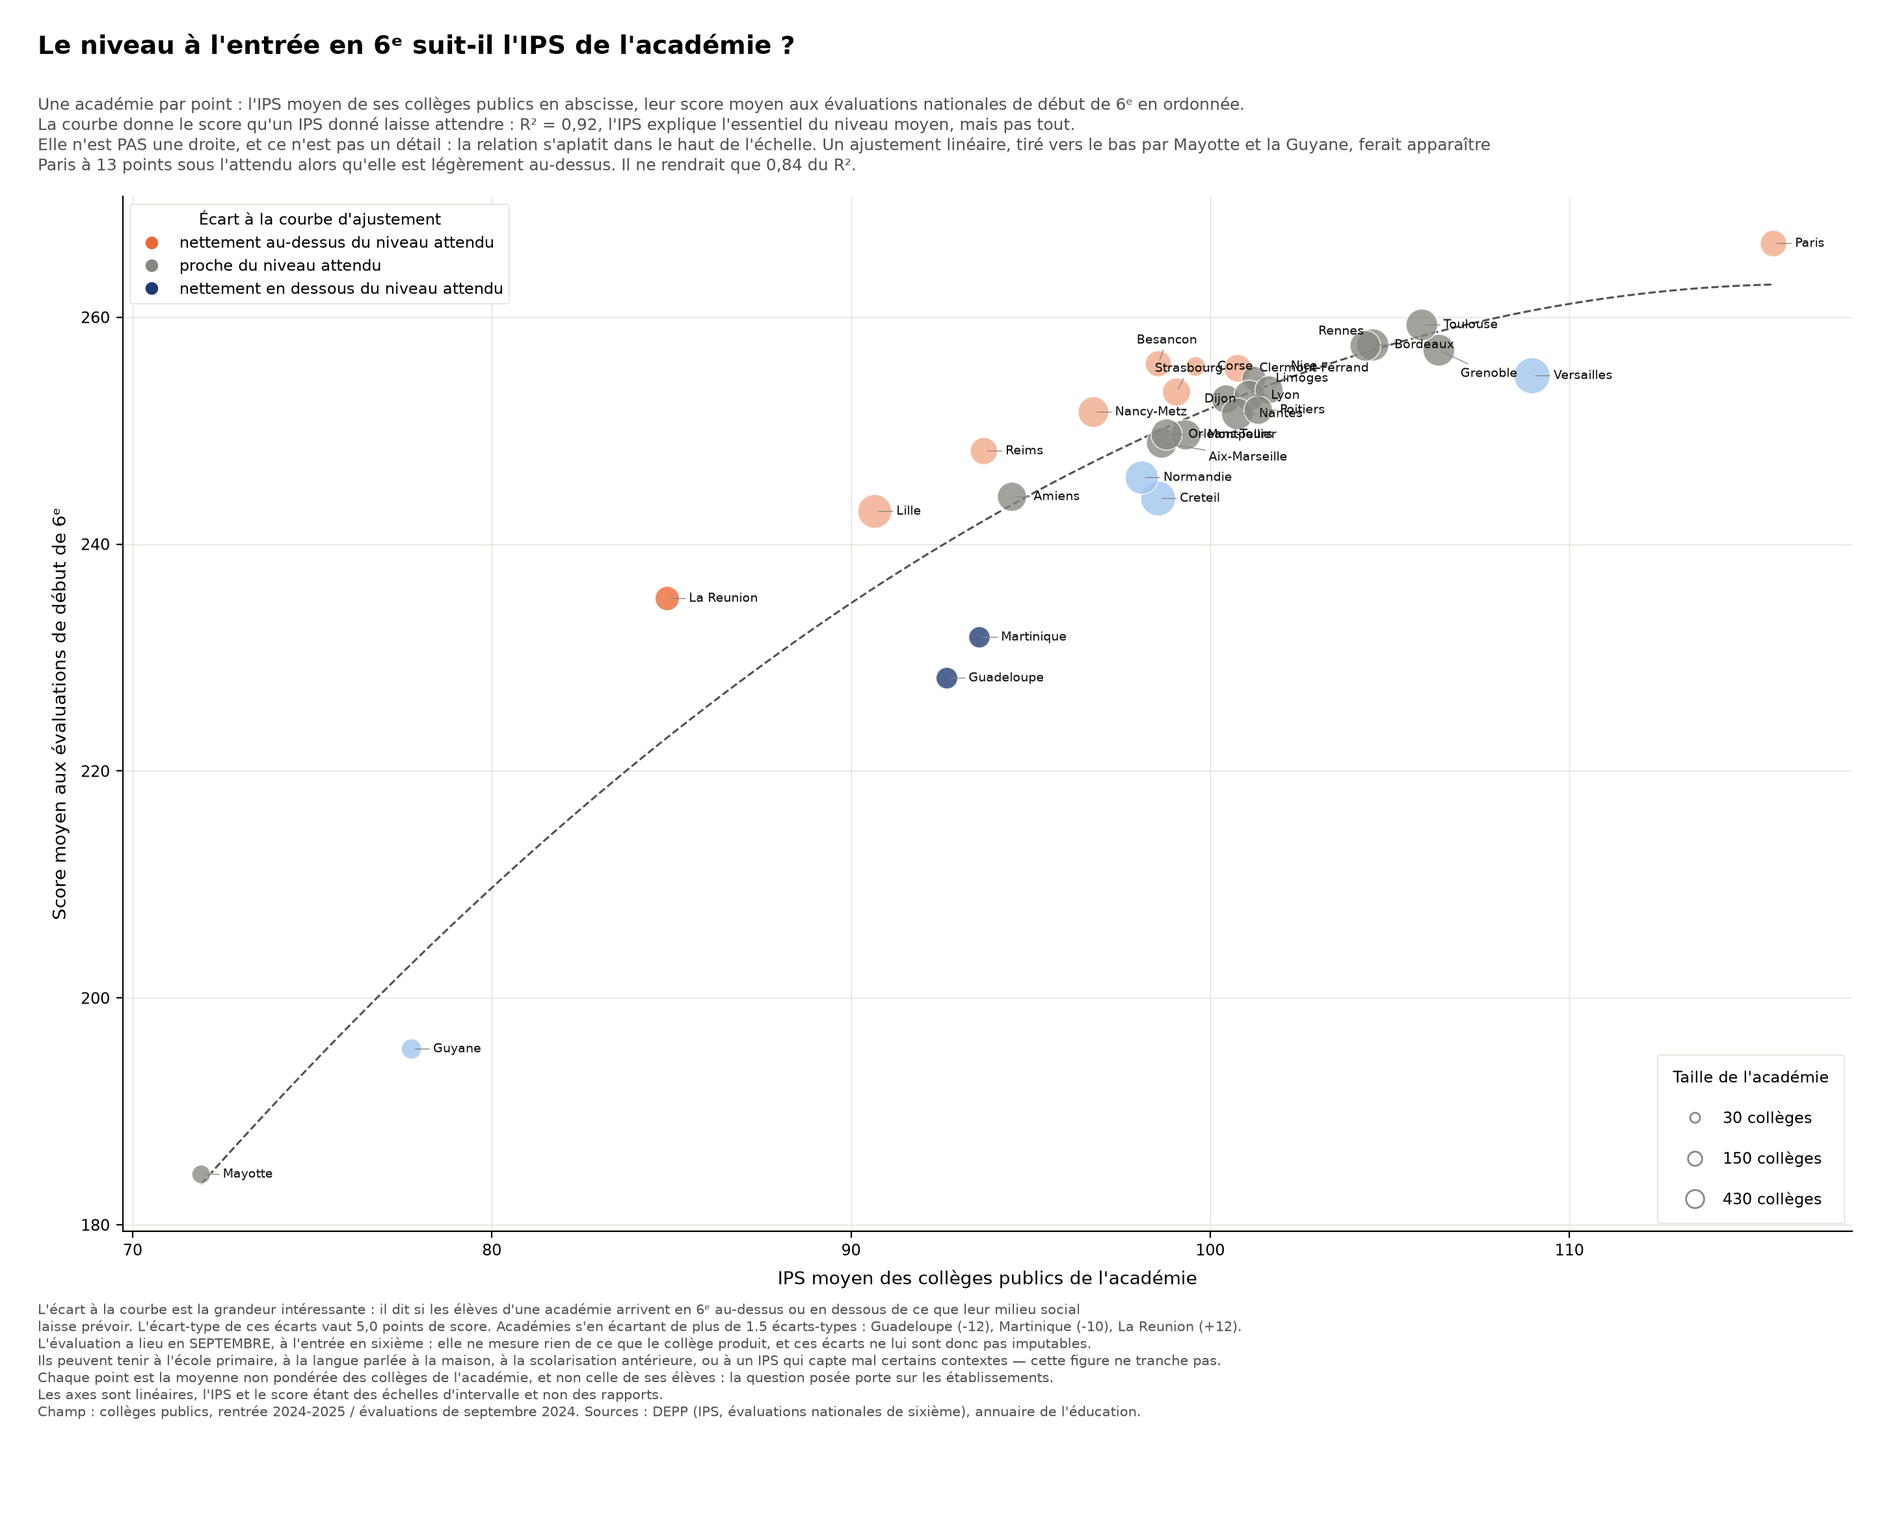
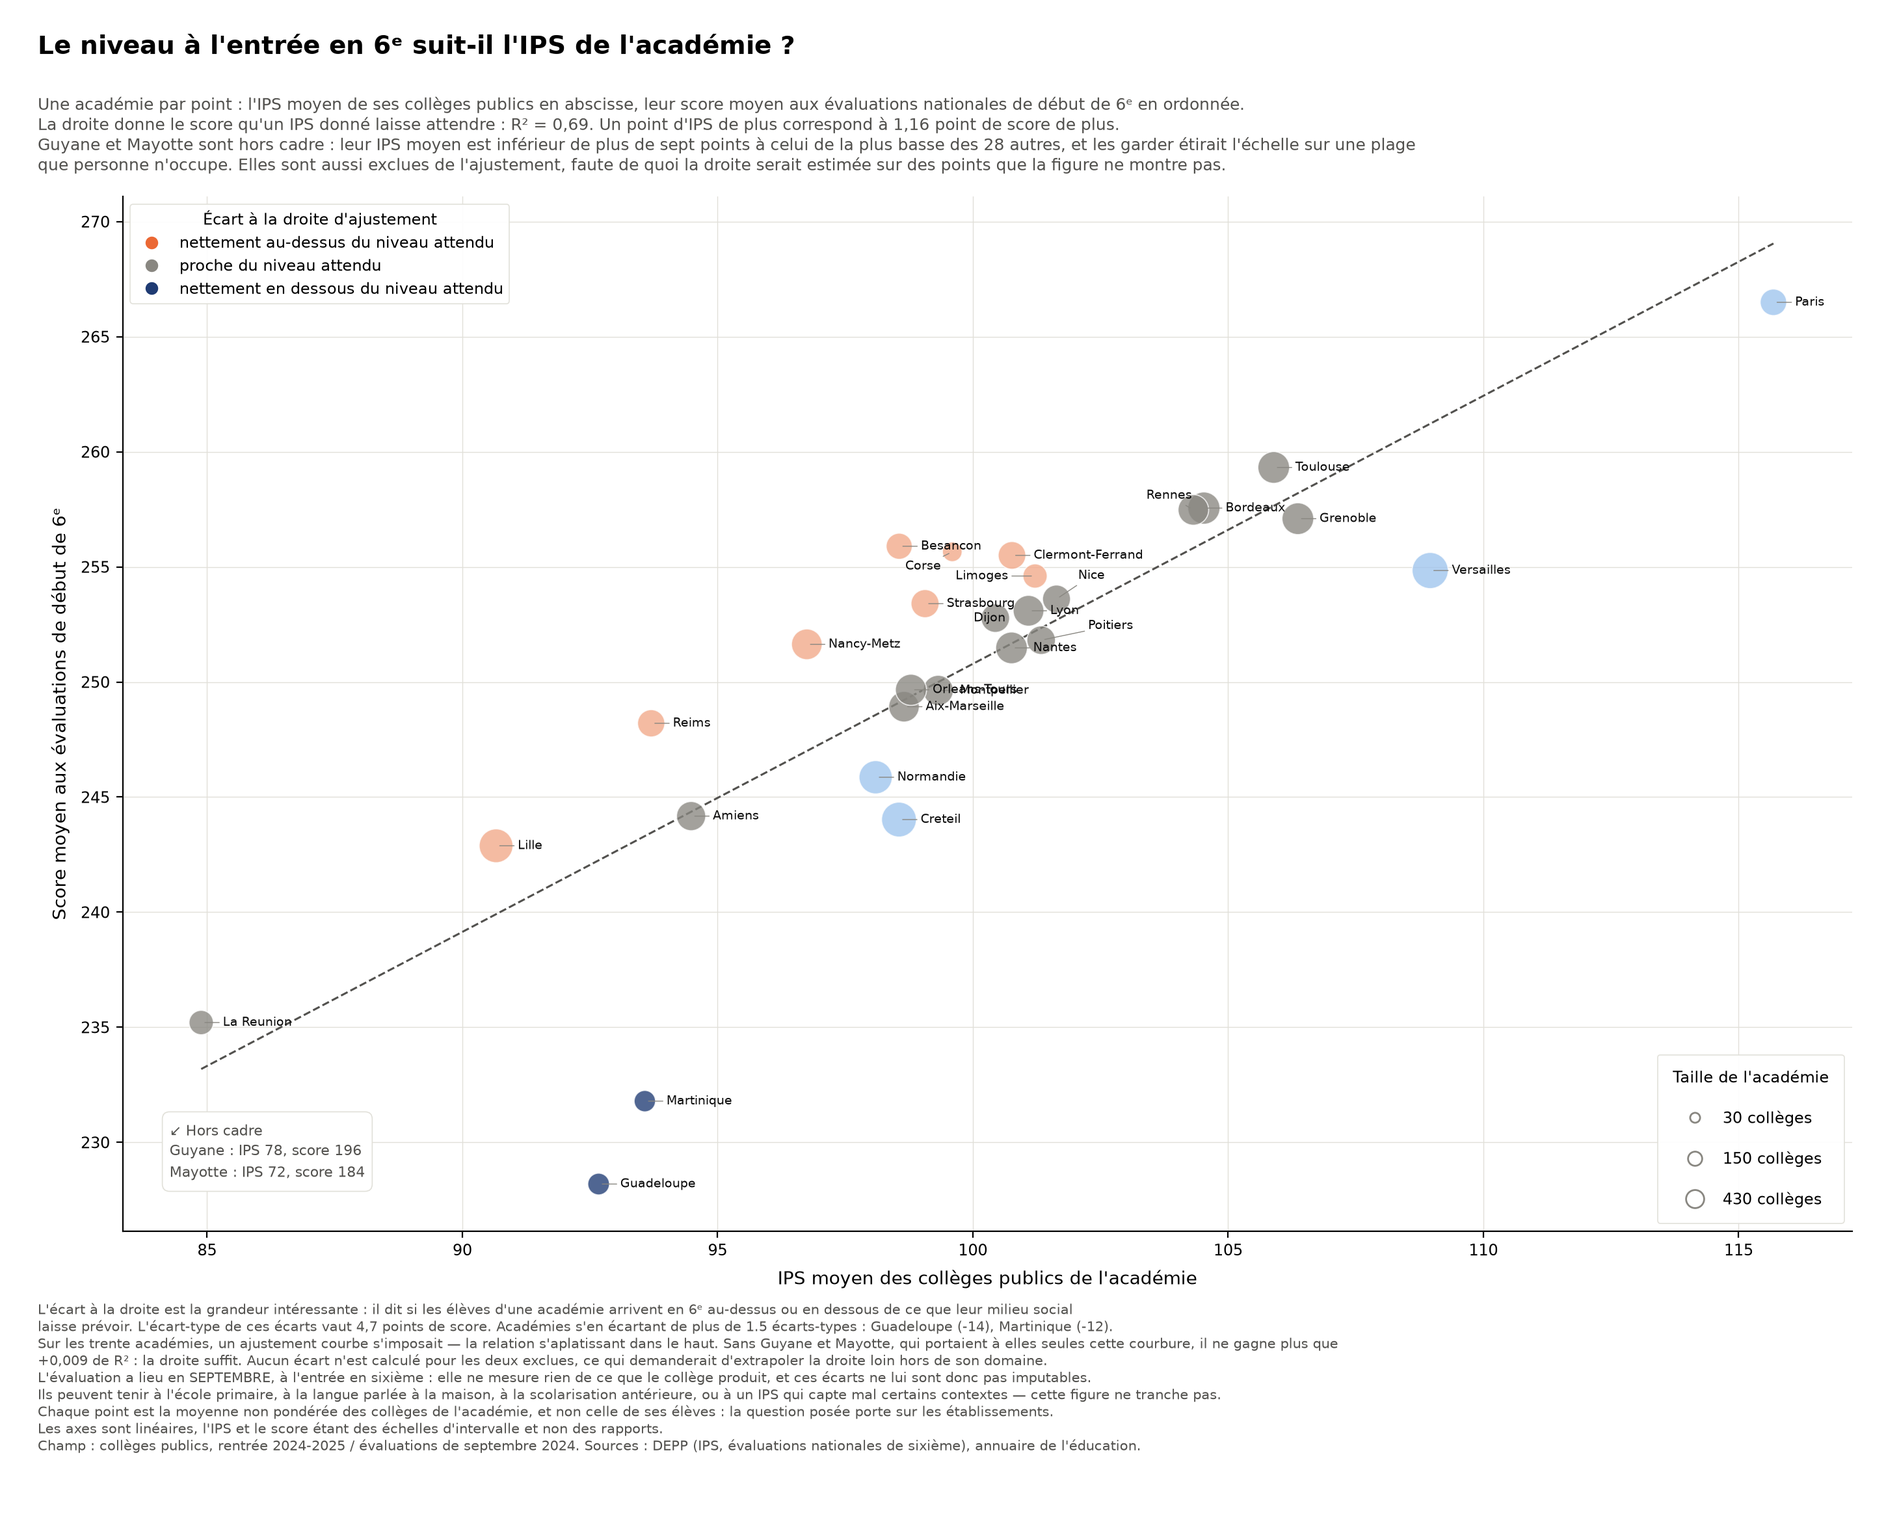
Mayotte et la Guyane hors cadre, et retour a un ajustement lineaire
Leur IPS moyen — 71,9 et 77,8 — est inferieur de plus de sept points a celui de
la plus basse des autres, La Reunion a 84,9. Les garder etirait l'echelle sur
une plage de quinze points d'IPS que personne n'occupe et tassait les
vingt-huit autres academies dans le coin superieur droit.

ELLES SORTENT AUSSI DE L'AJUSTEMENT, ET CE N'EST PAS UNE COMMODITE

Le commit precedent avait adopte un ajustement quadratique, la relation
s'aplatissant nettement dans le haut. Verification faite, cette courbure etait
portee PAR CES DEUX POINTS A ELLE SEULE :

  sur 30 academies   droite R2 0,837   quadratique 0,917   gain +0,080
  sur 28             droite R2 0,686   quadratique 0,695   gain +0,009

Les retirer du cadre en gardant la courbe aurait affiche une courbure justifiee
par des points invisibles. La droite s'impose donc, et la figure l'explique au
lieu de le taire.

Le R2 tombe de 0,92 a 0,69. Ce n'est pas une perte de qualite mais un
changement de question : les trente academies couvraient une plage d'IPS de
quarante-quatre points, ou n'importe quelle relation parait forte ; les
vingt-huit n'en couvrent que vingt-quatre, et la relation y est reellement plus
lache.

CE QUE CELA CHANGE AU RESULTAT

Les academies atypiques ne sont plus les memes, et c'est la troisieme fois
qu'elles changent selon l'ajustement — signe qu'il faut les lire avec prudence.
A 1,5 ecart-type il n'en reste que deux, et ce sont les seules stables d'une
[…]

diff --git a/src/niveau_academies.py b/src/niveau_academies.py
@@ -70,6 +70,19 @@ ENCRE, ENCRE_2, MUET, GRILLE = "#0b0b0b", "#52514e", "#898781", "#e1e0d9"
 # a la commenter sans alourdir la figure.
 SEUIL_ATYPIQUE = 1.5
 
+# En dessous de cet IPS moyen, une academie sort du cadre ET de l'ajustement.
+# Deux sont concernees a ce jour, Mayotte (71,9) et la Guyane (77,8), tres
+# loin de la plus basse des autres — La Reunion, a 84,9. Les garder etirait
+# l'echelle sur une plage de quinze points d'IPS que personne n'occupe et
+# tassait les vingt-huit autres dans le coin superieur droit.
+#
+# Elles sortent aussi de l'AJUSTEMENT, et ce n'est pas une commodite. Elles
+# portaient a elles seules toute la courbure : sans elles, le gain d'un
+# ajustement quadratique sur un ajustement lineaire tombe de +0,080 a +0,009 de
+# R2. Les retirer du cadre en gardant la courbe afficherait une courbure
+# justifiee par des points invisibles.
+SEUIL_IPS_CADRE = 82.0
+
 
 def charger() -> pd.DataFrame:
     """Moyennes academiques d'IPS et de score de sixieme, colleges publics."""
@@ -100,76 +113,99 @@ def charger() -> pd.DataFrame:
 def ajuster(aca: pd.DataFrame) -> tuple[pd.DataFrame, dict]:
     """Ajuste le score sur l'IPS et calcule le residu de chaque academie.
 
-    POURQUOI UNE COURBE ET NON UNE DROITE
+    POURQUOI UNE DROITE, ET SUR VINGT-HUIT ACADEMIES
 
-    La premiere version de ce module ajustait une droite. Elle produisait un
-    resultat faux : Paris apparaissait a 12,8 points SOUS le niveau attendu,
-    classe parmi les academies les plus en retard, alors que la relation
-    s'aplatit dans le haut de l'echelle. L'ajustement lineaire, tire vers le
-    bas par Mayotte et la Guyane, sur-predisait mecaniquement les academies a
-    fort IPS.
+    L'ajustement porte sur les academies CADREES, Mayotte et la Guyane en etant
+    exclues (voir `SEUIL_IPS_CADRE`). Ce choix decide de la forme :
 
-    Le terme carre est nettement negatif et fait passer le R2 de 0,84 a 0,92.
-    Sous cet ajustement, le residu de Paris devient +3,6 : l'academie est en
-    fait un peu AU-DESSUS de l'attendu. Celui de Versailles passe de -11,9 a
-    -5,7 — il reste negatif, mais deux fois moindre.
+      - sur les trente, un ajustement quadratique gagnait +0,080 de R2 sur une
+        droite (0,837 -> 0,917), et la courbure etait franche ;
+      - sur les vingt-huit, il ne gagne plus que +0,009 (0,686 -> 0,695).
 
-    Le degre deux et pas davantage : trois points d'inflexion sur trente
-    observations decriraient le bruit plutot que la relation.
+    Autrement dit, la courbure etait portee par ces deux points a elle seule.
+    Une fois qu'ils sortent du cadre, la droite s'impose : ajuster une courbe
+    dont la forme depend de points qu'on ne montre pas serait indefendable.
 
-    Le residu, lui, reste la grandeur interessante — c'est lui qui dit qu'une
+    Le prix a payer est explicite : le R2 passe de 0,92 a 0,69. Ce n'est pas
+    une perte de qualite mais un changement de question. Les trente academies
+    couvrent une plage d'IPS de quarante-quatre points, ou n'importe quelle
+    relation parait forte ; les vingt-huit n'en couvrent que vingt-quatre, et
+    la relation y est reellement plus lache.
+
+    Le residu reste la grandeur interessante — c'est lui qui dit qu'une
     academie sort du rang.
     """
-    x, y = aca["ips_moyen"].to_numpy(), aca["eval6_moyen"].to_numpy()
-    coefficients = np.polyfit(x, y, 2)
-
     aca = aca.copy()
-    aca["attendu"] = np.polyval(coefficients, x)
-    aca["residu"] = y - aca["attendu"]
+    aca["dans_cadre"] = aca["ips_moyen"] >= SEUIL_IPS_CADRE
+    cadrees = aca[aca["dans_cadre"]]
+    x, y = cadrees["ips_moyen"].to_numpy(), cadrees["eval6_moyen"].to_numpy()
 
-    # R2 calcule sur les residus, et non comme le carre d'une correlation :
-    # cette derniere ne vaut que pour un ajustement lineaire.
+    coefficients = np.polyfit(x, y, 1)
+    aca["attendu"] = np.polyval(coefficients, aca["ips_moyen"])
+    aca["residu"] = aca["eval6_moyen"] - aca["attendu"]
+
+    # R2 et ecart-type des residus sur les seules academies ajustees : les
+    # inclure fausserait les deux, l'ajustement ne les ayant pas vues.
+    residus = aca.loc[aca["dans_cadre"], "residu"]
     total = ((y - y.mean()) ** 2).sum()
-    r2 = 1 - (aca["residu"] ** 2).sum() / total
-    droite = np.polyfit(x, y, 1)
-    r2_droite = 1 - ((y - np.polyval(droite, x)) ** 2).sum() / total
+    r2 = 1 - (residus ** 2).sum() / total
+    quad = np.polyfit(x, y, 2)
+    r2_quad = 1 - ((y - np.polyval(quad, x)) ** 2).sum() / total
 
     ajustement = {
-        "coefficients": coefficients, "r2": r2, "r2_droite": r2_droite,
-        "sigma": aca["residu"].std(),
+        "coefficients": coefficients, "r2": r2, "r2_quad": r2_quad,
+        "sigma": residus.std(), "n": len(cadrees),
     }
-    aca["atypique"] = (aca["residu"].abs()
-                       > SEUIL_ATYPIQUE * ajustement["sigma"])
+    # Le caractere atypique n'a de sens que pour les academies ajustees : pour
+    # les autres, le residu serait une extrapolation loin hors du domaine.
+    aca["atypique"] = (aca["dans_cadre"]
+                       & (aca["residu"].abs()
+                          > SEUIL_ATYPIQUE * ajustement["sigma"]))
     return aca, ajustement
 
 
 def resumer(aca: pd.DataFrame, ajustement: dict) -> None:
     """Affiche l'ajustement et les academies qui s'en ecartent."""
+    hors = aca[~aca["dans_cadre"]]
     print(f"\n{'=' * 78}")
     print("NIVEAU A L'ENTREE EN SIXIEME ET IPS, PAR ACADEMIE")
     print("=" * 78)
-    print(f"\n  {len(aca)} academies, colleges publics")
-    a, b, c = ajustement["coefficients"]
-    print(f"  score = {a:+.5f} x IPS2 {b:+.3f} x IPS {c:+.1f}")
-    print(f"  R2 {ajustement['r2']:.3f}  (une droite seule : "
-          f"{ajustement['r2_droite']:.3f})")
+    print(f"\n  {len(aca)} academies, dont {ajustement['n']} ajustees")
+    print(f"  hors cadre (IPS moyen < {SEUIL_IPS_CADRE:g}) : "
+          f"{', '.join(hors['academie'])}")
+    pente, ordonnee = ajustement["coefficients"]
+    print(f"\n  score = {ordonnee:.1f} + {pente:.3f} x IPS")
+    print(f"  R2 {ajustement['r2']:.3f}  (un ajustement quadratique : "
+          f"{ajustement['r2_quad']:.3f}, soit "
+          f"{ajustement['r2_quad'] - ajustement['r2']:+.3f})")
     print(f"  ecart-type des residus : {ajustement['sigma']:.2f} points de score")
-    print("\n  le terme carre est negatif : la relation s'aplatit dans le haut")
+    print(f"\n  un point d'IPS de plus correspond a {pente:.2f} point de "
+          f"score de plus")
 
     vue = ["academie", "colleges", "ips_moyen", "eval6_moyen", "attendu",
            "residu"]
-    tri = aca.sort_values("residu")
+    tri = aca[aca["dans_cadre"]].sort_values("residu")
     print("\n  les plus BAS au regard de leur IPS :")
     print(tri.head(5)[vue].round(1).to_string(index=False))
     print("\n  les plus HAUTS :")
     print(tri.tail(5)[vue].round(1).to_string(index=False))
+    print("\n  les deux exclues, pour memoire :")
+    print(hors[["academie", "colleges", "ips_moyen", "eval6_moyen"]]
+          .round(1).to_string(index=False))
 
 
 def figure(aca: pd.DataFrame, ajustement: dict) -> None:
-    """Nuage IPS moyen x score moyen, une academie par point."""
-    x = aca["ips_moyen"].to_numpy()
-    y = aca["eval6_moyen"].to_numpy()
-    colleges = aca["colleges"].to_numpy()
+    """Nuage IPS moyen x score moyen, une academie par point.
+
+    Mayotte et la Guyane sont hors cadre — elles etiraient l'echelle sur une
+    plage de quinze points d'IPS que personne n'occupe — mais nommees dans une
+    note encadree, avec leurs valeurs et une fleche vers le coin ou elles se
+    trouvent. Les omettre en silence serait malhonnete.
+    """
+    cadrees, hors = aca[aca["dans_cadre"]], aca[~aca["dans_cadre"]]
+    x = cadrees["ips_moyen"].to_numpy()
+    y = cadrees["eval6_moyen"].to_numpy()
+    colleges = cadrees["colleges"].to_numpy()
 
     # La SURFACE porte le nombre de colleges : c'est l'aire que l'oeil compare,
     # d'ou la racine carree. Une academie de 430 colleges et une de 22 ne
@@ -180,7 +216,7 @@ def figure(aca: pd.DataFrame, ajustement: dict) -> None:
     # l'attendu, bleu en dessous, gris au voisinage de la droite. C'est la
     # seule information que la position seule ne donne pas d'un coup d'oeil.
     sigma = ajustement["sigma"]
-    reduit = aca["residu"] / sigma
+    reduit = cadrees["residu"] / sigma
     couleurs = np.select(
         [reduit < -SEUIL_ATYPIQUE, reduit < -0.5, reduit > SEUIL_ATYPIQUE,
          reduit > 0.5],
@@ -191,11 +227,11 @@ def figure(aca: pd.DataFrame, ajustement: dict) -> None:
     fig, ax = plt.subplots(figsize=(14.5, 11.8))
     fig.subplots_adjust(left=0.065, right=0.982, top=0.872, bottom=0.198)
 
-    # Courbe d'ajustement, tracee sur l'etendue OBSERVEE et non sur tout
-    # l'axe : la prolonger suggererait une validite hors du domaine des
-    # donnees, ce qui pour un polynome serait particulierement trompeur.
-    grille_x = np.linspace(x.min(), x.max(), 200)
-    ax.plot(grille_x, np.polyval(ajustement["coefficients"], grille_x),
+    # Droite d'ajustement, tracee sur l'etendue des academies AJUSTEES et non
+    # sur tout l'axe : la prolonger vers Mayotte et la Guyane suggererait une
+    # validite hors du domaine ou elle a ete estimee.
+    bornes_x = np.array([x.min(), x.max()])
+    ax.plot(bornes_x, np.polyval(ajustement["coefficients"], bornes_x),
             color=ENCRE_2, linewidth=1.1, linestyle="--", zorder=1)
 
     ax.scatter(x, y, s=tailles, c=couleurs, alpha=0.78, linewidths=0.6,
@@ -209,7 +245,7 @@ def figure(aca: pd.DataFrame, ajustement: dict) -> None:
     # etiquettes du centre restent serrees — le module le signale, et le
     # fichier CSV porte les valeurs exactes.
     annotations = []
-    for xi, yi, nom in zip(x, y, aca["academie"]):
+    for xi, yi, nom in zip(x, y, cadrees["academie"]):
         annotations.append(ax.annotate(
             nom.title(), xy=(xi, yi), xytext=(11, 0),
             textcoords="offset points", fontsize=7, color=ENCRE,
@@ -220,6 +256,24 @@ def figure(aca: pd.DataFrame, ajustement: dict) -> None:
     if restantes:
         print(f"  {restantes} etiquettes sans position libre : elles se "
               f"chevauchent peut-etre")
+
+    # ---- les academies hors cadre, signalees et non tues -------------------
+    if len(hors):
+        lignes = [
+            f"{nom.title()} : IPS {ips:.0f}, score {score:.0f}"
+            for nom, ips, score in zip(hors["academie"], hors["ips_moyen"],
+                                       hors["eval6_moyen"])]
+        # La fleche part de la note vers le coin inferieur gauche, ou les deux
+        # academies se trouveraient. On ne donne PAS leur ecart a la droite :
+        # ce serait une extrapolation a plus de dix points d'IPS hors du
+        # domaine ou elle a ete estimee.
+        ax.annotate("↙ Hors cadre\n" + "\n".join(lignes),
+                    xy=(0.0, 0.0), xycoords="axes fraction",
+                    xytext=(26, 26), textcoords="offset points",
+                    fontsize=8, color=ENCRE_2, ha="left", va="bottom",
+                    linespacing=1.5,
+                    bbox=dict(boxstyle="round,pad=0.5", facecolor="white",
+                              edgecolor=GRILLE, linewidth=0.6))
 
     ax.set_xlabel("IPS moyen des collèges publics de l'académie", fontsize=10,
                   labelpad=6)
@@ -244,7 +298,7 @@ def figure(aca: pd.DataFrame, ajustement: dict) -> None:
     ]
     premiere = ax.legend(handles=poignees, loc="upper left", fontsize=8.5,
                          frameon=True, framealpha=0.96, edgecolor=GRILLE,
-                         title="Écart à la courbe d'ajustement",
+                         title="Écart à la droite d'ajustement",
                          title_fontsize=8.5)
     premiere.get_frame().set_linewidth(0.6)
     ax.add_artist(premiere)
@@ -267,8 +321,11 @@ def figure(aca: pd.DataFrame, ajustement: dict) -> None:
     # substitution de virgule appliquee a un bloc de litteraux adjacents
     # toucherait aussi les points de fin de phrase.
     r2_txt = f"{ajustement['r2']:.2f}".replace(".", ",")
-    r2_droite_txt = f"{ajustement['r2_droite']:.2f}".replace(".", ",")
+    gain_txt = f"{ajustement['r2_quad'] - ajustement['r2']:+.3f}".replace(
+        ".", ",")
+    pente_txt = f"{ajustement['coefficients'][0]:.2f}".replace(".", ",")
     sigma_txt = f"{ajustement['sigma']:.1f}".replace(".", ",")
+    noms_hors = " et ".join(nom.title() for nom in hors["academie"])
 
     atypiques = aca[aca["atypique"]].sort_values("residu")
     noms = ", ".join(
@@ -281,24 +338,31 @@ def figure(aca: pd.DataFrame, ajustement: dict) -> None:
              f"Une académie par point : l'IPS moyen de ses collèges publics en "
              f"abscisse, leur score moyen aux évaluations nationales de début de "
              f"6ᵉ en ordonnée.\n"
-             f"La courbe donne le score qu'un IPS donné laisse attendre : "
-             f"R² = {r2_txt}, l'IPS explique l'essentiel du niveau moyen, mais "
-             f"pas tout.\n"
-             f"Elle n'est PAS une droite, et ce n'est pas un détail : la "
-             f"relation s'aplatit dans le haut de l'échelle. Un ajustement "
-             f"linéaire, tiré vers le bas par Mayotte et la Guyane, ferait "
-             f"apparaître\n"
-             f"Paris à 13 points sous l'attendu alors qu'elle est légèrement "
-             f"au-dessus. Il ne rendrait que {r2_droite_txt} du R².",
+             f"La droite donne le score qu'un IPS donné laisse attendre : "
+             f"R² = {r2_txt}. Un point d'IPS de plus correspond à {pente_txt} "
+             f"point de score de plus.\n"
+             f"{noms_hors} sont hors cadre : leur IPS moyen est inférieur de "
+             f"plus de sept points à celui de la plus basse des "
+             f"{ajustement['n']} autres, et les garder étirait l'échelle sur "
+             f"une plage\n"
+             f"que personne n'occupe. Elles sont aussi exclues de "
+             f"l'ajustement, faute de quoi la droite serait estimée sur des "
+             f"points que la figure ne montre pas.",
              fontsize=9, va="top", color=ENCRE_2)
 
     fig.text(0.02, 0.152,
-             f"L'écart à la courbe est la grandeur intéressante : il dit si les "
+             f"L'écart à la droite est la grandeur intéressante : il dit si les "
              f"élèves d'une académie arrivent en 6ᵉ au-dessus ou en dessous de "
              f"ce que leur milieu social\n"
              f"laisse prévoir. L'écart-type de ces écarts vaut {sigma_txt} points "
              f"de score. Académies s'en écartant de plus de "
              f"{SEUIL_ATYPIQUE:g} écarts-types : {noms}.\n"
+             f"Sur les trente académies, un ajustement courbe s'imposait — la "
+             f"relation s'aplatissant dans le haut. Sans {noms_hors}, qui "
+             f"portaient à elles seules cette courbure, il ne gagne plus que\n"
+             f"{gain_txt} de R² : la droite suffit. Aucun écart n'est calculé "
+             f"pour les deux exclues, ce qui demanderait d'extrapoler la droite "
+             f"loin hors de son domaine.\n"
              "L'évaluation a lieu en SEPTEMBRE, à l'entrée en sixième : elle ne "
              "mesure rien de ce que le collège produit, et ces écarts ne lui sont "
              "donc pas imputables.\n"
